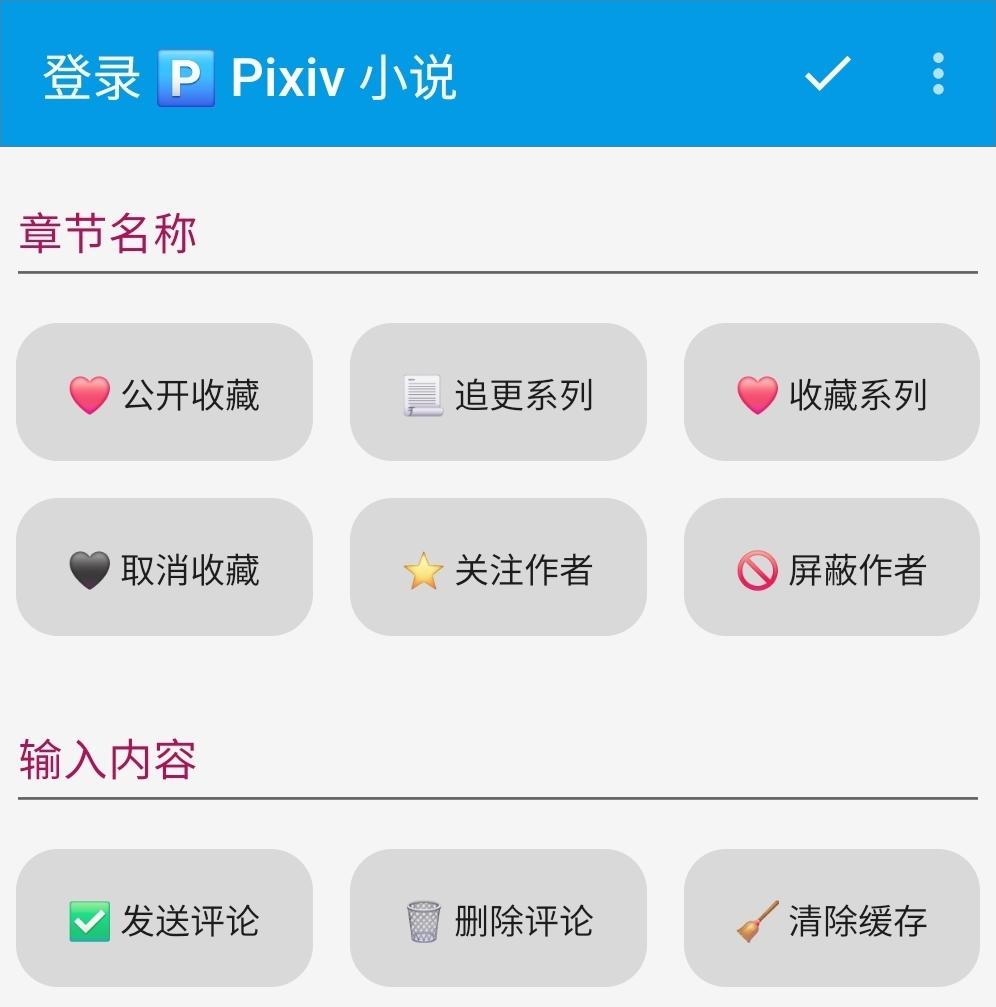
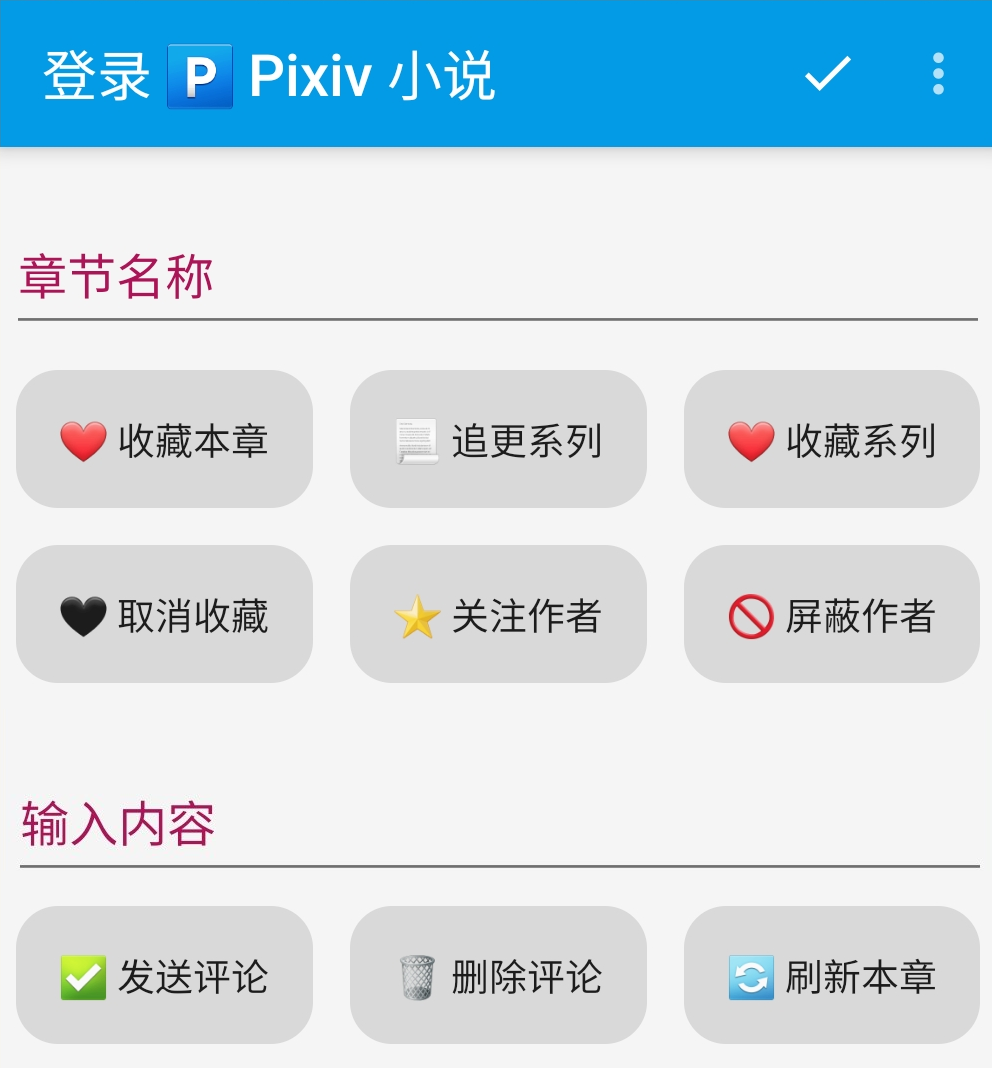
站点：更新文档，同步 257 更新

diff --git a/doc/Pixiv.md b/doc/Pixiv.md
@@ -458,81 +458,87 @@
 
 
 ### ▶ 登录界面 {#LoginUI}
-<details><summary> ▶ 登录界面 </summary>
+<details><summary> ▶ 基础功能 </summary>
+
+**我的 - 书源管理 - Pixiv 小说 - 登录**
+
+![img](./pic/PixivLogin1.png)
 
 
-- <details><summary> 🅿 打开登录界面 </summary>
-  
-  - **①我的 - 书源管理 - Pixiv 小说 - 登录**
-  
-  ![img](./pic/PixivLogin1.png)
-  
-  - **②小说阅读界面 - Pixiv 小说 - 登录**
-  
-  ![img](./pic/PixivLogin0.png)
-  </details>
+#### 5.0 账号功能
+> [!IMPORTANT]
+> 
+> **⚠ 登录账号/退出账号都要使用按钮**
 
-- <details><summary> 🅿 账号功能 </summary>
+![img](./pic/PixivLoginUIAccount.png)
+- 🅿 登录账号：登录 Pixiv 账号
+- ⚙ 账号设置：设置 Pixiv 账号的浏览范围
+- 🔙 退出账号：退出 Pixiv 账号，并清理缓存
 
-  #### 5.0 账号功能
-  - ⚠ 登录/退出账号都要使用按钮
 
-  ![img](./pic/PixivLoginUIAccount.png)
-  - 🅿 登录账号：登录 Pixiv 账号，并获取 cookie 和 csfrToken
-  - ⚙ 账号设置：Pixiv 的浏览范围设置
-  - 🔙 退出账号：退出 Pixiv 账号，并清理 cookie 和 csfrToken
-  </details>
+#### 5.1 书源功能
+![img](./pic/PixivLoginUISource.png)
+- 🆙 更新书源：更新书源/更新订阅
+- 🔰 使用指南：打开 Github 文档(本页)
+- **✈ 直连模式：直连模式（需登录账号）**
 
-- <details><summary> 📢 书源功能 </summary>
+</details>
 
-  #### 5.1 书源功能
-  ![img](./pic/PixivLoginUISource.png)
-  - 🆙 更新书源：更新书源/更新订阅(同上)
-  - 🔰 使用指南：打开 Github 文档(本页)
-  - ✈ 直连模式：直连模式（需登录账号）
-  </details>
 
-- <details><summary> 📃 小说功能 </summary>
+<details><summary> ⚙ 书源设置 </summary>
 
-  #### 5.2 小说功能
-  ![img](./pic/PixivLoginUINovels.png)
-  - ❤ 公开收藏：公开收藏、取消收藏
-  - 📃 追更系列：追更系列、取消追更
-  - ❤ 收藏系列：公开收藏系列内的每篇小说（可追加收藏）
-  - 
-  - 🖤 取消收藏：取消收藏单篇、取消收藏系列内的每篇小说
-  - ⭐ 关注作者：关注作者、取消关注
-  - 🚫 屏蔽作者：屏蔽作者、取消屏蔽（本地）
-  - 
-  - ✅ 发送评论：当前章节下发送评论（手动刷新章节，更新评论）
-  - 🗑 删除评论：当前章节下删除评论（手动刷新章节，更新评论）
-  - 🧹 清除缓存：清除当前章节的正文缓存（手动刷新章节，更新正文和评论）
-  </details>
+**⚙ 书源设置 => 我的 - 书源管理 - Pixiv 小说 - 登录**
 
-- <details><summary> ⚙ 书源设置 </summary>
-  
-  #### 5.4 书源设置
-  ![img](./pic/PixivLoginUISettings.png)
-  - ⚙ 当前设置：显示当前设置
-  - ⚙ 默认设置：恢复默认设置
-  - 👤 搜索作者：默认搜索作者
-  - 
-  - 🀄 繁简通搜：搜索进行繁简转换（搜索作者不转换）
-  - 📖 更多简介：详情显示更多简介
-  - 📅 更新时间：目录显示更新时间
-  - 
-  - 🔗 原始链接：显示原始链接
-  - 📚 恢复《》：恢复正文内被替换的书名号《》
-  - 🖼 显示描述：章首显示描述
-  - 
-  - 💬 显示评论：章尾显示评论
-  - ❤ 显示收藏：搜索发现 显示/屏蔽 收藏单篇小说
-  - 📃 显示追更：搜索发现 显示/屏蔽 追更系列小说
-  - 
-  - ⏩ 快速模式：开启快速模式（关闭**默认搜索作者等**影响搜索速度的功能）
-  - 🐞 调试模式：开启调试模式
-  - 🔍 搜索说明：显示搜索说明
-  </details>
+![img.png](./pic/PixivLogin1.png)
+
+此处打开登录界面，可以显示 **书源设置**
+
+
+#### 5.2 书源设置
+![img](./pic/PixivLoginUISettings.png)
+- ⚙ 当前设置：显示当前设置
+- ⚙ 默认设置：恢复默认设置
+- 👤 搜索作者：默认搜索作者
+-
+- 🀄 繁简通搜：搜索进行繁简转换（搜索作者不转换）
+- 📖 更多简介：详情显示更多简介
+- 📅 更新时间：目录显示更新时间
+-
+- 🔗 原始链接：显示原始链接
+- 📚 恢复《》：恢复正文内被替换的书名号《》
+- 🖼 显示描述：章首显示描述
+-
+- 💬 显示评论：章尾显示评论
+- ❤ 显示收藏：搜索发现 显示/屏蔽 收藏单篇小说
+- 📃 显示追更：搜索发现 显示/屏蔽 追更系列小说
+-
+- ⏩ 快速模式：开启快速模式（关闭**默认搜索作者等**影响搜索速度的功能）
+- 🐞 调试模式：开启调试模式
+- 🔍 搜索说明：显示搜索说明
+
+</details>
+
+<details><summary> ⏺ 互动功能 </summary>
+
+- **书架 - 小说阅读界面 - Pixiv 小说 - 登录**
+
+![img](./pic/PixivLogin0.png)
+
+#### 5.3 互动功能
+![img](./pic/PixivLoginUINovels.png)
+
+- **❤ 收藏本章：添加公开收藏、切换私密收藏**
+- 📃 追更系列：追更系列、取消追更
+- **❤ 收藏系列：公开收藏系列内的每篇小说（可追加）**
+-
+- **🖤 取消收藏：短按取消收藏单篇、长按取消收藏系列**
+- ⭐ 关注作者：关注作者（按钮&跳转浏览器）、取消关注
+- **🚫 屏蔽作者：屏蔽作者、取消屏蔽（本地）**
+-
+- ✅ 发送评论：当前章节下发送评论（手动刷新章节，更新评论）
+- 🗑  删除评论：当前章节下删除评论（手动刷新章节，更新评论）
+- **🔄 刷新本章：刷新章节正文和评论**
+
 </details>
 
 
